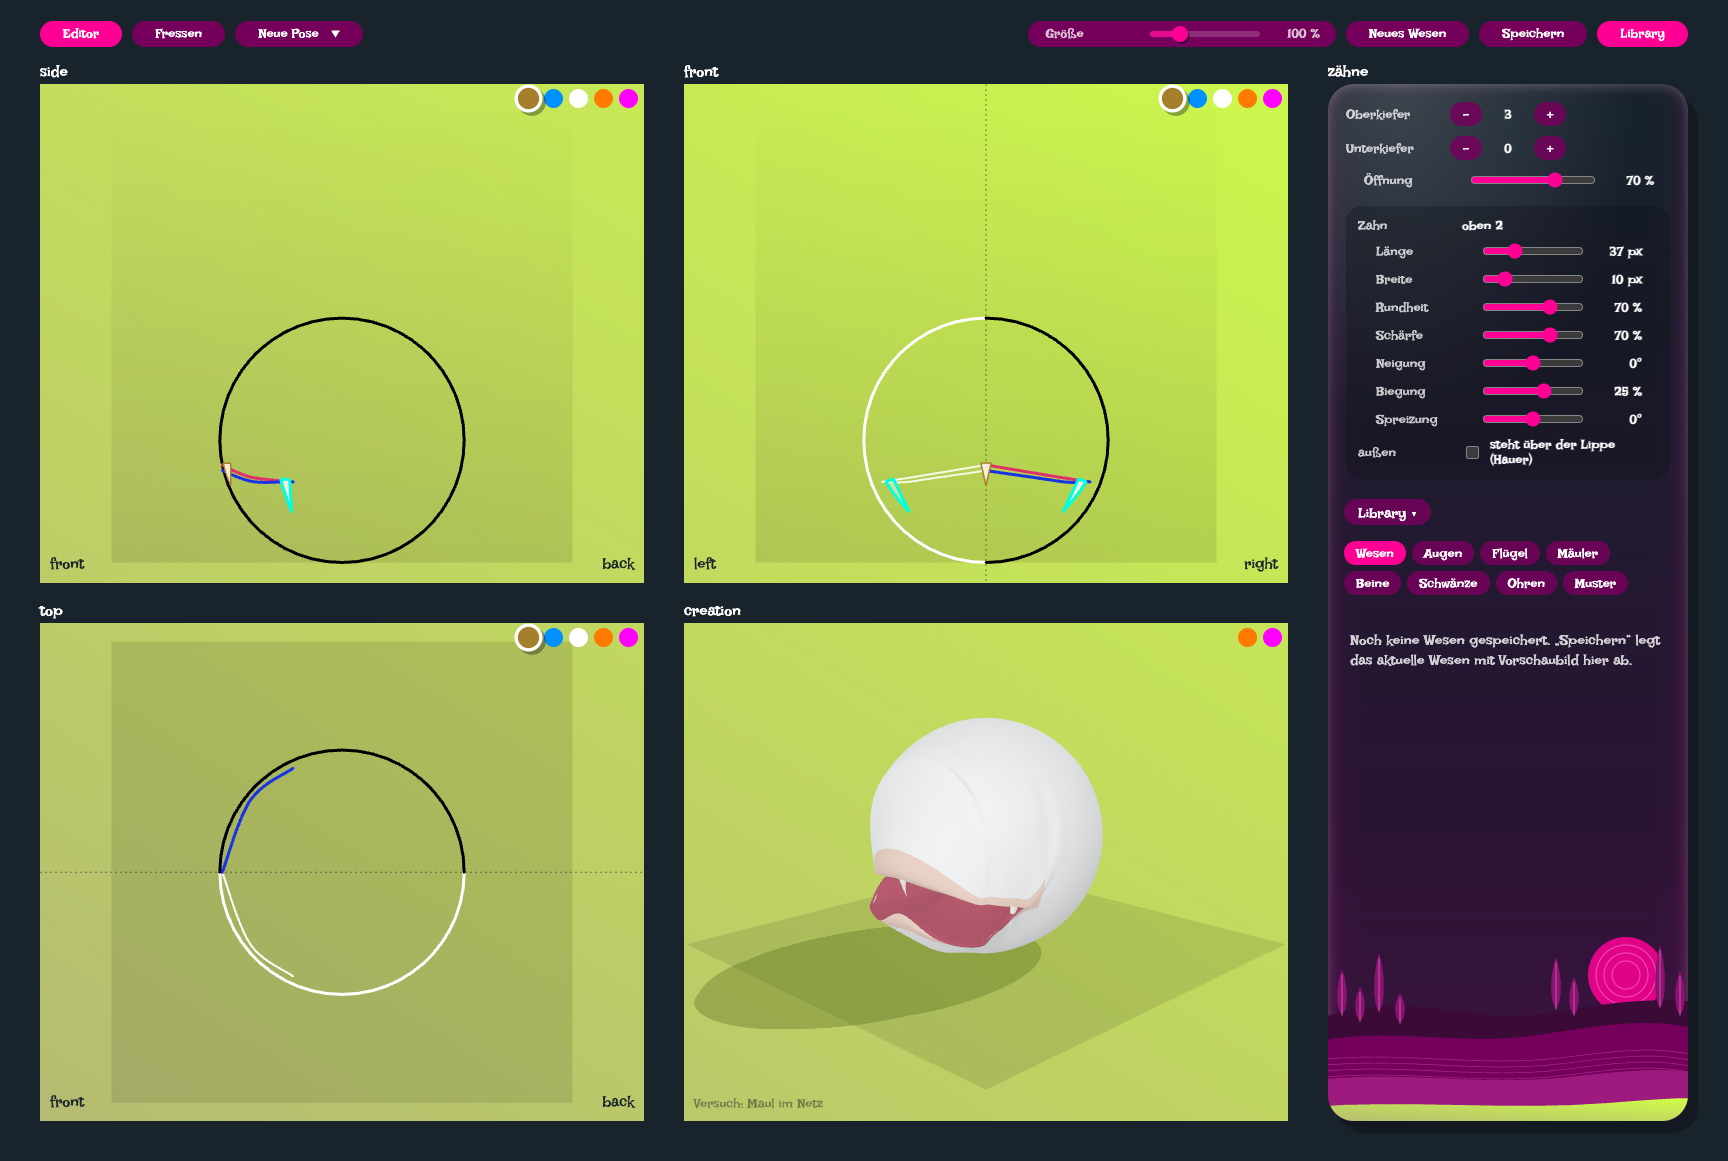
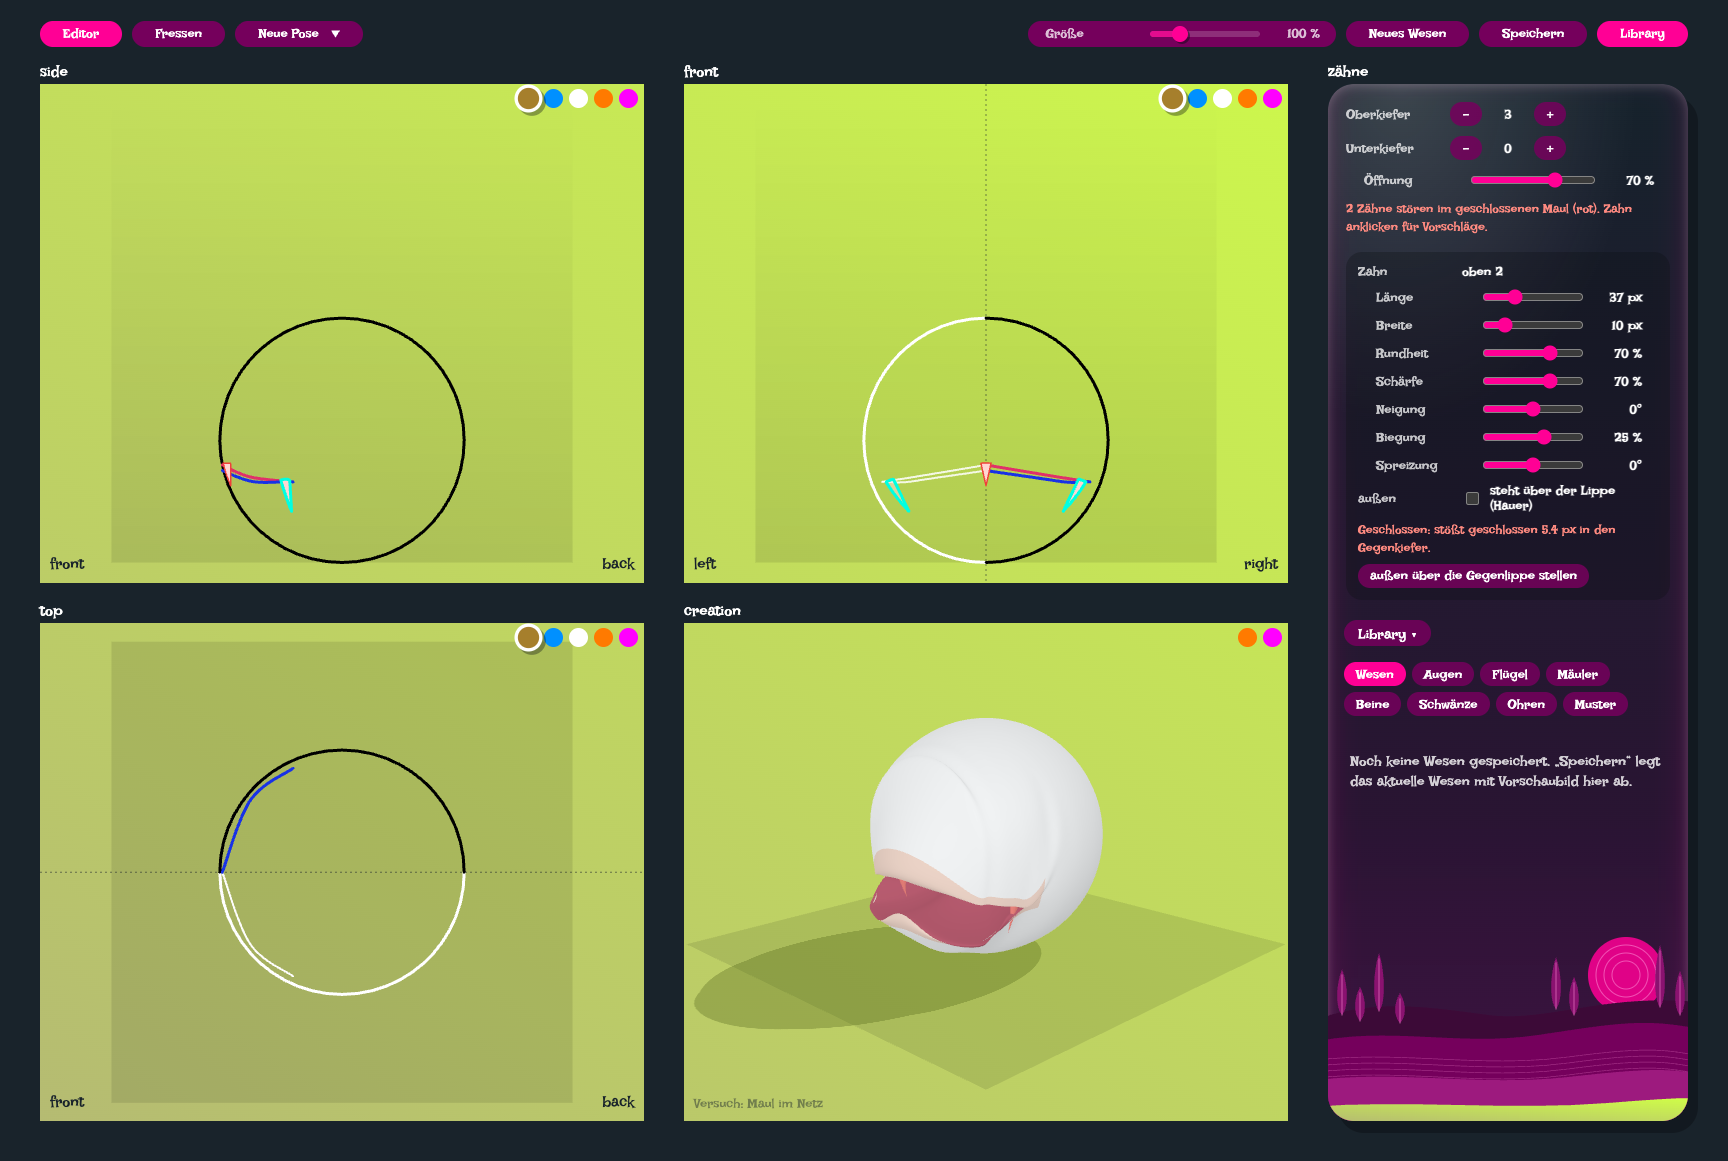
Zahn-Tab: Prüfung im geschlossenen Maul (Zahn-Versuch) – störende Zähne rot in Seite, Front und 3D, Befund und Vorschläge in der Seitenleiste, ein Klick übernimmt; während Gesten der letzte Stand; E2E mit langem Zahn und Vorschlag

Changed region(s): [[0.7812, 0.155, 0.9688, 0.6202], [0.7812, 0.6512, 0.9688, 0.6822]]

diff --git a/apps/editor/src/maul/zahnKoerper.ts b/apps/editor/src/maul/zahnKoerper.ts
@@ -3,9 +3,23 @@
 // damit auch die Versuchsseite (`?versuch=maul`) sie nutzen kann.
 
 import type { Zaehne, ZahnEintrag, Zahnreihe } from '@ee/shape';
-import { type Kiefer, type MaulKaefig, type Netz, type Zahn, type ZahnAuf, type ZahnForm, zahnNetze, zahnfleischAusKaefig } from '@ee/shape/versuch';
+import {
+  type Kiefer,
+  type MaulKaefig,
+  type Netz,
+  type Zahn,
+  type ZahnAenderung,
+  type ZahnAuf,
+  type ZahnBefund,
+  type ZahnForm,
+  zahnNetze,
+  zahnPruefen,
+  zahnfleischAusKaefig,
+} from '@ee/shape/versuch';
 
 const ZAHN_FARBE: [number, number, number] = [0.97, 0.94, 0.86];
+/** Zahn, der geschlossen stört (Prüfung des Zahn-Versuchs) */
+const ZAHN_ROT: [number, number, number] = [0.95, 0.25, 0.22];
 
 /** Tiefe (quer zum Zahnfleisch) fehlt im Dokument: ¾ der Breite. */
 const TIEFE = 0.75;
@@ -49,8 +63,6 @@ export function zahnListe(z: Zaehne | undefined): ZahnMitQuelle[] {
   return [...reihe(z.oben, 'oben'), ...reihe(z.unten, 'unten')];
 }
 
-export const zaehneAusDok = (z: Zaehne | undefined): Zahn[] => zahnListe(z).map((q) => q.zahn);
-
 const fleischSpeicher = new WeakMap<Netz, ReturnType<typeof zahnfleischAusKaefig>>();
 
 /** Zahnfleisch beider Kiefer für eine Lage des Käfigs (gemerkt je Käfig-Objekt). */
@@ -63,13 +75,75 @@ export function fleischVon(mk: MaulKaefig, kaefig: Netz, stufen = 3): ReturnType
   return f;
 }
 
-/** Zähne am Zahnfleisch des Käfigs in der Lage `kaefig` (Öffnung α), als Dreiecke mit Zahnfarbe. */
-export function zahnDreiecke(mk: MaulKaefig, kaefig: Netz, zaehne: readonly Zahn[], alpha: number, stufen = 3) {
+/** Zähne am Zahnfleisch des Käfigs in der Lage `kaefig` (Öffnung α), als Dreiecke; `rot` = Indizes störender Zähne. */
+export function zahnDreiecke(mk: MaulKaefig, kaefig: Netz, zaehne: readonly Zahn[], alpha: number, stufen = 3, rot: ReadonlySet<number> = new Set()) {
   const fleisch = fleischVon(mk, kaefig, stufen);
   const z = zahnNetze(zaehne, fleisch, alpha);
   const farben = new Float32Array(z.positionen.length);
-  for (let i = 0; i < farben.length; i += 3) farben.set(ZAHN_FARBE, i);
+  z.bereiche.forEach((b, i) => {
+    const c = rot.has(i) ? ZAHN_ROT : ZAHN_FARBE;
+    for (let k = b.start; k < b.start + b.anzahl; k++) farben.set(c, k * 3);
+  });
   return { positionen: z.positionen, normalen: z.normalen, farben };
+}
+
+// ---------- Prüfung im geschlossenen Maul ----------
+
+/** Schwerster Befund eines Dokument-Zahns (beide Seiten zusammen); `listenIndex` = Lage in `zahnListe`. */
+export type ZahnMeldung = { kiefer: Kiefer; index: number; befund: ZahnBefund; listenIndizes: number[] };
+
+let pruefSpeicher: { kaefig: Netz; zaehne: Zaehne; meldungen: ZahnMeldung[] } | null = null;
+
+/**
+ * Prüfung der Zähne im geschlossenen Maul (`zahnPruefen`, 75–185 ms): gemerkt je Käfig und Zahnreihen. Während einer
+ * Geste `zahnMeldungenZuletzt()` benutzen, damit Regler flüssig bleiben.
+ */
+export function zahnMeldungen(mk: MaulKaefig, zu: Netz, zaehne: Zaehne): ZahnMeldung[] {
+  if (pruefSpeicher && pruefSpeicher.kaefig === zu && pruefSpeicher.zaehne === zaehne) return pruefSpeicher.meldungen;
+  const liste = zahnListe(zaehne);
+  const befunde = liste.length ? zahnPruefen(mk, zu, liste.map((q) => q.zahn)) : [];
+  const je = new Map<string, ZahnMeldung>();
+  for (const b of befunde) {
+    const q = liste[b.zahn];
+    if (!q || b.art === 'ok') continue;
+    const schluessel = `${q.kiefer}:${q.index}`;
+    const alt = je.get(schluessel);
+    if (!alt) je.set(schluessel, { kiefer: q.kiefer, index: q.index, befund: b, listenIndizes: [b.zahn] });
+    else {
+      if (!alt.listenIndizes.includes(b.zahn)) alt.listenIndizes.push(b.zahn);
+      if (b.tiefe > alt.befund.tiefe) alt.befund = b;
+    }
+  }
+  const meldungen = [...je.values()];
+  pruefSpeicher = { kaefig: zu, zaehne, meldungen };
+  return meldungen;
+}
+
+export const zahnMeldungenZuletzt = (): ZahnMeldung[] => pruefSpeicher?.meldungen ?? [];
+
+/** Befund in Worten (Bildpunkte der 461-px-Kachel wie die Regler). */
+export function befundText(b: ZahnBefund): string {
+  const px = Math.max(0.1, b.tiefe * 461).toFixed(1).replace('.', ',');
+  if (b.art === 'durchKiefer') return `stößt ${px} px in den Gegenkiefer`;
+  if (b.art === 'zuNah') return `außen zu nah an der Gegenlippe (${px} px Luft fehlen)`;
+  if (b.art === 'zahnZahn') return `überlappt einen Nachbarzahn um ${px} px`;
+  return `sticht ${px} px aus der Haut`;
+}
+
+/** Vorschlag des Prüfers auf den Dokument-Zahn anwenden (die Tiefe folgt im Dokument der Breite). */
+export function aenderungAnwenden(e: ZahnEintrag, a: ZahnAenderung): ZahnEintrag {
+  const neu: ZahnEintrag = { ...e };
+  for (const k of ['laenge', 'breite', 'rundheit', 'schaerfe', 'neigung', 'biegung', 'spreizung', 'u'] as const) {
+    const v = a[k];
+    if (v !== undefined) neu[k] = v;
+  }
+  if (a.aussen !== undefined) neu.aussen = a.aussen;
+  if (a.auf) {
+    const auf = { ...e.auf, ...a.auf };
+    delete auf.tiefe;
+    neu.auf = auf;
+  }
+  return neu;
 }
 
 export const anhaengen = (a: Float32Array, b: Float32Array) => {

diff --git a/apps/editor/src/leiste/Seitenleiste.tsx b/apps/editor/src/leiste/Seitenleiste.tsx
@@ -8,6 +8,8 @@ import { ladeAusBibliothek } from '../aktionen';
 import { useRahmen } from '../layout/animation';
 import { editorApi, useBibliothek } from '../library/speicher';
 import { aktuelleLippen, setzeLippen } from '../maul/MaulEbene';
+import { useZahnMeldungen } from '../maul/ZahnEbene';
+import { aenderungAnwenden, befundText } from '../maul/zahnKoerper';
 import { useMaulInfo } from '../maul/maulKoerper';
 import { useEditor } from '../state/editorStore';
 import { type Ebene, useUi } from '../state/uiStore';
@@ -151,6 +153,15 @@ function ZahnBereich() {
     useUi.getState().setzeZahnAuswahl(null);
   };
   const zahn = auswahl ? zaehne[auswahl.kiefer].zaehne[auswahl.index] : undefined;
+  const meldungen = useZahnMeldungen();
+  const meldung = auswahl ? meldungen.find((m) => m.kiefer === auswahl.kiefer && m.index === auswahl.index) : undefined;
+  const vorschlagNehmen = (a: Parameters<typeof aenderungAnwenden>[1]) => {
+    if (!auswahl || !zahn) return;
+    const reihe = zaehne[auswahl.kiefer];
+    const liste = reihe.zaehne.slice();
+    liste[auswahl.index] = aenderungAnwenden(zahn, a);
+    useEditor.getState().setzeZaehne({ ...zaehne, [auswahl.kiefer]: { ...reihe, zaehne: liste } });
+  };
   const wert = (k: keyof ZahnWerte): number => (zahn ? (offen ? zahn.auf?.[k] ?? zahn[k] : zahn[k]) : 0);
   const setze = (k: keyof ZahnWerte | 'aussen', v: number | boolean) => {
     if (!auswahl || !zahn) return;
@@ -176,6 +187,11 @@ function ZahnBereich() {
         </div>
       ))}
       <OeffnungsRegler />
+      {meldungen.length > 0 && (
+        <p className="hilfe warnung" data-zahnmeldungen={meldungen.length}>
+          {meldungen.length === 1 ? '1 Zahn stört' : `${meldungen.length} Zähne stören`} im geschlossenen Maul (rot). Zahn anklicken für Vorschläge.
+        </p>
+      )}
       {zahn ? (
         <div className="unterbereich">
           <div className="feld">
@@ -197,6 +213,16 @@ function ZahnBereich() {
             <input type="checkbox" checked={zahn.aussen} onChange={(e) => setze('aussen', e.target.checked)} />
             <b>steht über der Lippe (Hauer)</b>
           </label>
+          {meldung && (
+            <div className="befund">
+              <p className="hilfe warnung">Geschlossen: {befundText(meldung.befund)}.</p>
+              {(meldung.befund.vorschlaege ?? []).map((v, i) => (
+                <button key={i} className="chip vorschlag" onClick={() => vorschlagNehmen(v.aenderung)}>
+                  {v.text}
+                </button>
+              ))}
+            </div>
+          )}
         </div>
       ) : (
         <p className="hilfe">Zahn in Seite oder Front anklicken: Untermenü mit Rundheit, Schärfe, Neigung. Im Tab Fressen gelten die Werte für das offene Maul (z. B. größer).</p>

diff --git a/apps/editor/src/maul/ZahnEbene.tsx b/apps/editor/src/maul/ZahnEbene.tsx
@@ -8,10 +8,23 @@ import { type Kiefer, type V3, type Zahnfleisch, inAnsicht2, zahnGitter } from '
 import { type Modus, useEditor } from '../state/editorStore';
 import { useUi } from '../state/uiStore';
 import { maulZuletzt, useMaulInfo } from './maulKoerper';
-import { fleischVon, zahnListe } from './zahnKoerper';
+import { fleischVon, zahnListe, zahnMeldungen, zahnMeldungenZuletzt } from './zahnKoerper';
 
 const ZAHN = '#f4ecd8';
 const RAND = '#a67f2c';
+/** stört geschlossen (Prüfung des Zahn-Versuchs) */
+const ROT = '#f0403a';
+const ROT_FLAECHE = '#ffd6d2';
+
+/** Befunde der Prüfung im geschlossenen Maul; während einer Geste der letzte Stand (die Prüfung dauert 75–185 ms). */
+export function useZahnMeldungen() {
+  const dok = useEditor((s) => s.dok);
+  const geste = useEditor((s) => s.gesteStart);
+  useMaulInfo((s) => s.info);
+  const b = maulZuletzt(dok);
+  if (!b || !dok.zaehne) return [];
+  return geste ? zahnMeldungenZuletzt() : zahnMeldungen(b.mk, b.zu, dok.zaehne);
+}
 
 /** Lage der Zähne im aktuellen Tab: Käfig, Öffnung und Zahnfleisch beider Kiefer. */
 function zahnLage(dok: Dokument, modus: Modus) {
@@ -47,6 +60,7 @@ export function ZahnZeichnung({ ansicht, bild }: { ansicht: Ansicht; bild: (p: V
   const modus = useEditor((s) => s.modus);
   const auswahl = useUi((s) => s.zahnAuswahl);
   useMaulInfo((s) => s.info); // nach jedem Bau des Mauls neu zeichnen
+  const meldungen = useZahnMeldungen();
   if (ansicht === 'top' || !dok.zaehne) return null;
   const lage = zahnLage(dok, modus);
   if (!lage) return null;
@@ -62,14 +76,16 @@ export function ZahnZeichnung({ ansicht, bild }: { ansicht: Ansicht; bild: (p: V
         const d = h.map((p, i) => `${i ? 'L' : 'M'}${p.x.toFixed(1)} ${p.y.toFixed(1)}`).join('') + 'Z';
         const gewaehlt = auswahl?.kiefer === q.kiefer && auswahl.index === q.index;
         const spiegel = q.zahn.seite < 0;
+        const stoert = meldungen.some((m) => m.kiefer === q.kiefer && m.index === q.index);
         return (
           <path
             key={k}
             data-zahn={`${q.kiefer}:${q.index}`}
+            {...(stoert ? { 'data-stoert': '' } : {})}
             d={d}
-            fill={ZAHN}
+            fill={stoert ? ROT_FLAECHE : ZAHN}
             fillOpacity={spiegel ? 0.55 : 1}
-            stroke={gewaehlt ? 'var(--punkt)' : RAND}
+            stroke={gewaehlt ? 'var(--punkt)' : stoert ? ROT : RAND}
             strokeWidth={gewaehlt ? 3 : 1.5}
             strokeLinejoin="round"
           />

diff --git a/apps/editor/e2e/maul.spec.ts b/apps/editor/e2e/maul.spec.ts
@@ -141,14 +141,22 @@ test('Maul-Tab: Linie ab der Kontur zeichnen, Kiefer getrennt, offen, Öffnung, 
   await expect(page.locator('.leiste .unterbereich')).toBeVisible();
   d = await dok(page);
   expect(d.zaehne!.oben.zaehne[1]!.u).toBeGreaterThan(u0 + 0.02);
-  // Regler Länge im Untermenü
+  // Regler Länge im Untermenü: ein langer Zahn stößt geschlossen in den Unterkiefer und wird rot, mit Vorschlägen
   await page.locator('.leiste .unterbereich .regler input[type="range"]').first().fill('0.08');
   expect((await dok(page)).zaehne!.oben.zaehne[1]!.laenge).toBeCloseTo(0.08, 5);
   await warteAufBau(page);
   expect(await page.evaluate(() => (window as unknown as Fenster).__editor!.vertices())).toBe(vZaehne);
+  await expect(page.locator('.vp-ober[data-view="seite"] [data-zahn="oben:1"][data-stoert]')).toHaveCount(1);
+  await expect(page.locator('.leiste .befund .vorschlag').first()).toBeVisible();
   await page.screenshot({ path: path.join(bilder, 'zahn-tab.png') });
+  // ersten Vorschlag übernehmen: danach stört der Zahn nicht mehr
+  await page.locator('.leiste .befund .vorschlag').first().click();
+  await warteAufBau(page);
+  await expect(page.locator('.vp-ober[data-view="seite"] [data-zahn="oben:1"][data-stoert]')).toHaveCount(0);
 
-  // Rückgängig nimmt Schritte zurück (Länge, Verschieben, Anzahl), Maul bleibt erhalten
+  // Rückgängig nimmt Schritte zurück (Vorschlag, Länge, Verschieben, Anzahl), Maul bleibt erhalten
+  await page.keyboard.press('ControlOrMeta+z');
+  expect((await dok(page)).zaehne!.oben.zaehne[1]!.laenge).toBeCloseTo(0.08, 5);
   await page.keyboard.press('ControlOrMeta+z');
   await page.keyboard.press('ControlOrMeta+z');
   expect((await dok(page)).zaehne!.oben.zaehne[1]!.u).toBeCloseTo(u0, 6);

diff --git a/apps/editor/src/three/Szene3D.tsx b/apps/editor/src/three/Szene3D.tsx
@@ -9,7 +9,7 @@ import { versuchAktiv, versuchNetz } from '../versuch/subdivision';
 import { tigerSchritt } from '../versuch/tigerSchritte';
 import { maulVersuch } from '../versuch/maulVersuch';
 import { maulBauen, maulDreiecke } from '../maul/maulKoerper';
-import { zaehneAusDok } from '../maul/zahnKoerper';
+import { zahnListe, zahnMeldungen } from '../maul/zahnKoerper';
 
 declare global {
   interface Window {
@@ -49,7 +49,9 @@ export function Szene3D() {
           // Versuch 12.10.: Körper mit Maul (Käfig, Naht, Tasche), Öffnung aus der Seitenleiste
           const b = maulBauen(d);
           if (b) {
-            const t = maulDreiecke(b, useUi.getState().oeffnung, 3, zaehneAusDok(d.zaehne));
+            // Zähne, die geschlossen stören, rot (Prüfung des Zahn-Versuchs, gemerkt je Käfig und Zahnreihen)
+            const rot = new Set(d.zaehne ? zahnMeldungen(b.mk, b.zu, d.zaehne).flatMap((m) => m.listenIndizes) : []);
+            const t = maulDreiecke(b, useUi.getState().oeffnung, 3, zahnListe(d.zaehne).map((q) => q.zahn), rot);
             const s = d.skalierung;
             if (s !== 1) for (let i = 0; i < t.positionen.length; i++) t.positionen[i]! *= s;
             r.setzeDreiecke(t.positionen, t.normalen, t.farben);

diff --git a/apps/editor/src/maul/maulKoerper.ts b/apps/editor/src/maul/maulKoerper.ts
@@ -90,6 +90,7 @@ export function maulDreiecke(
   alpha: number,
   stufen = 3,
   zaehne: readonly Zahn[] = [],
+  rot: ReadonlySet<number> = new Set(),
 ): { positionen: Float32Array; normalen: Float32Array; farben: Float32Array; kaefig: Netz } {
   const a = Math.min(1, Math.max(0, alpha));
   const zwischen = a <= 0 ? b.zu : a >= 1 ? b.auf : reissverschluss(b.mk, maulZwischen(b.mk, b.zu, b.auf, a, 'knochen', b.rig), a);
@@ -108,6 +109,6 @@ export function maulDreiecke(
     o += 3 * (f.length - 2);
   });
   if (!zaehne.length) return { ...d, farben, kaefig: zwischen };
-  const z = zahnDreiecke(b.mk, zwischen, zaehne, a, stufen);
+  const z = zahnDreiecke(b.mk, zwischen, zaehne, a, stufen, rot);
   return { positionen: anhaengen(d.positionen, z.positionen), normalen: anhaengen(d.normalen, z.normalen), farben: anhaengen(farben, z.farben), kaefig: zwischen };
 }

diff --git a/apps/editor/src/styles/editor.css b/apps/editor/src/styles/editor.css
@@ -493,6 +493,25 @@ button {
   line-height: 1.45;
   opacity: 0.82;
 }
+/* Zahn-Prüfung (Versuch 12.10.): stört geschlossen, Vorschläge als Knöpfe */
+.hilfe.warnung {
+  color: #ff8a80;
+  opacity: 1;
+}
+.befund {
+  display: flex;
+  flex-direction: column;
+  align-items: flex-start;
+  gap: 6px;
+}
+.chip.vorschlag {
+  height: auto;
+  min-height: 24px;
+  padding: 4px 12px;
+  text-align: left;
+  line-height: 1.3;
+  white-space: normal;
+}
 .leiste-library {
   display: flex;
   flex-direction: column;
